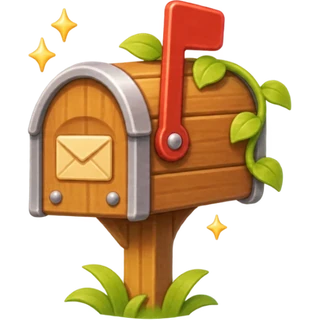
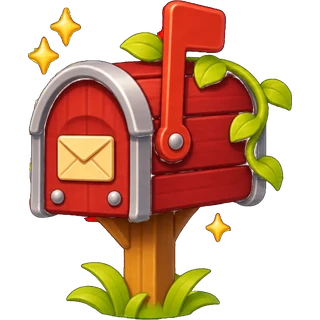
Boîte aux lettres rouge (nouvelles images), décollée du bord de l'encadré ; plus d'espace autour de la ligne « Décorer » (v2.22.1)
Claude-Session: https://claude.ai/code/session_018D5HKHn3DSYahUGNtVUd24

diff --git a/index.html b/index.html
@@ -6,13 +6,13 @@
   <title>Potager idle</title>
   <meta name="description" content="Un petit jeu idle de potager : plante, arrose, récolte, cuisine et découvre des variétés hybrides.">
   <meta name="theme-color" content="#fdf3e7" id="theme-color">
-  <link rel="manifest" href="manifest.webmanifest?v=313">
+  <link rel="manifest" href="manifest.webmanifest?v=314">
   <link rel="icon" href="icons/favicon-32.png" sizes="32x32" type="image/png">
   <link rel="icon" href="icons/favicon-64.png" sizes="64x64" type="image/png">
   <link rel="icon" href="icons/icon-192.png" sizes="192x192" type="image/png">
   <link rel="preload" href="fonts/nunito-latin.woff2" as="font" type="font/woff2" crossorigin>
   <link rel="preload" href="fonts/fredoka-latin.woff2" as="font" type="font/woff2" crossorigin>
-  <link rel="stylesheet" href="css/style.css?v=313">
+  <link rel="stylesheet" href="css/style.css?v=314">
 </head>
 <body>
 <div id="app">
@@ -44,22 +44,22 @@
 <div id="fx"></div>
 <div id="toasts" aria-live="polite"></div>
 
-<script src="js/env.js?v=313"></script>
-<script src="js/typo.js?v=313"></script>
-<script src="js/data.js?v=313"></script>
-<script src="assets/img/manifest.js?v=313"></script>
-<script src="js/art.js?v=313"></script>
-<script src="js/seasons.js?v=313"></script>
-<script src="js/sound.js?v=313"></script>
-<script src="js/achievements.js?v=313"></script>
-<script src="js/cloud-config.js?v=313"></script>
-<script src="js/cloud.js?v=313"></script>
-<script src="js/profile.js?v=313"></script>
-<script src="js/friends.js?v=313"></script>
-<script src="js/visit.js?v=313"></script>
-<script src="js/water.js?v=313"></script>
-<script src="js/trade.js?v=313"></script>
-<script src="js/tuto.js?v=313"></script>
-<script src="js/game.js?v=313"></script>
+<script src="js/env.js?v=314"></script>
+<script src="js/typo.js?v=314"></script>
+<script src="js/data.js?v=314"></script>
+<script src="assets/img/manifest.js?v=314"></script>
+<script src="js/art.js?v=314"></script>
+<script src="js/seasons.js?v=314"></script>
+<script src="js/sound.js?v=314"></script>
+<script src="js/achievements.js?v=314"></script>
+<script src="js/cloud-config.js?v=314"></script>
+<script src="js/cloud.js?v=314"></script>
+<script src="js/profile.js?v=314"></script>
+<script src="js/friends.js?v=314"></script>
+<script src="js/visit.js?v=314"></script>
+<script src="js/water.js?v=314"></script>
+<script src="js/trade.js?v=314"></script>
+<script src="js/tuto.js?v=314"></script>
+<script src="js/game.js?v=314"></script>
 </body>
 </html>

diff --git a/css/style.css b/css/style.css
@@ -1472,3 +1472,7 @@ button.brand { border: 0; background: none; padding: 0; cursor: pointer; }
 .mailbox .mb-art { object-fit: contain; }
 .mailbox .fr-badge { top: 6%; right: 4%; }
 .fw-ico { object-fit: contain; }
+/* Boîte aux lettres décollée du bord de l'encadré ; plus d'air autour de la ligne « Décorer » */
+.mailbox { bottom: 12px; }
+.panel:has(> .mailbox) > .garden { margin-bottom: calc(11% + 10px); }
+.garden-bar { margin: 6px 0; }

diff --git a/js/game.js b/js/game.js
@@ -1,7 +1,7 @@
 "use strict";
 /* Numéro de version affiché dans les Paramètres.
    À chaque mise à jour : changer APP_VERSION, le ?v= dans index.html et VERSION dans sw.js. */
-const APP_VERSION = "2.22.0" + (IS_TEST ? "-test" : "");
+const APP_VERSION = "2.22.1" + (IS_TEST ? "-test" : "");
 /* ---------------- Helpers ---------------- */
 const $ = s => document.querySelector(s);
 const now = () => Date.now();

diff --git a/sw.js b/sw.js
@@ -1,6 +1,6 @@
 /* Service worker de Potager idle : rend le jeu jouable hors-ligne.
    À chaque mise à jour du jeu, augmente VERSION pour que les téléphones téléchargent la nouvelle version. */
-const VERSION = "potager-v313";
+const VERSION = "potager-v314";
 const FILES = [
   "./",
   "index.html",
